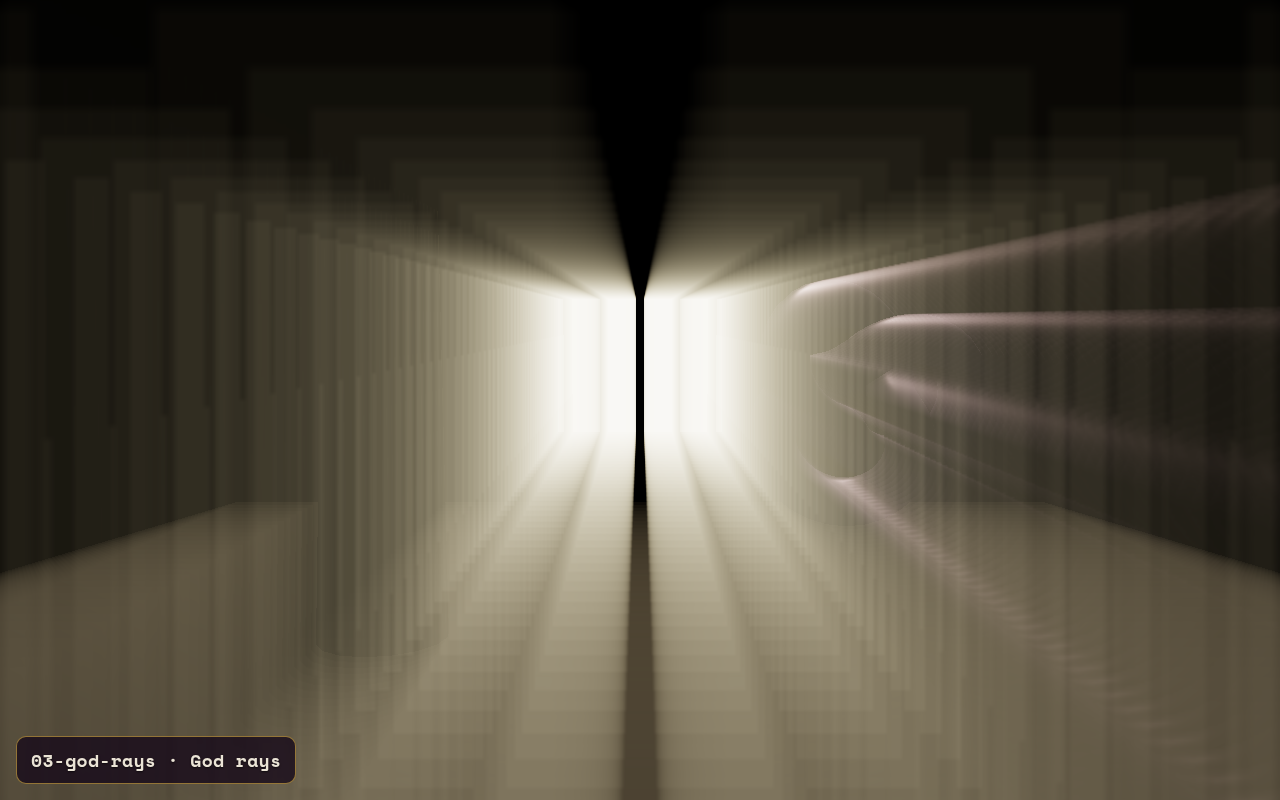
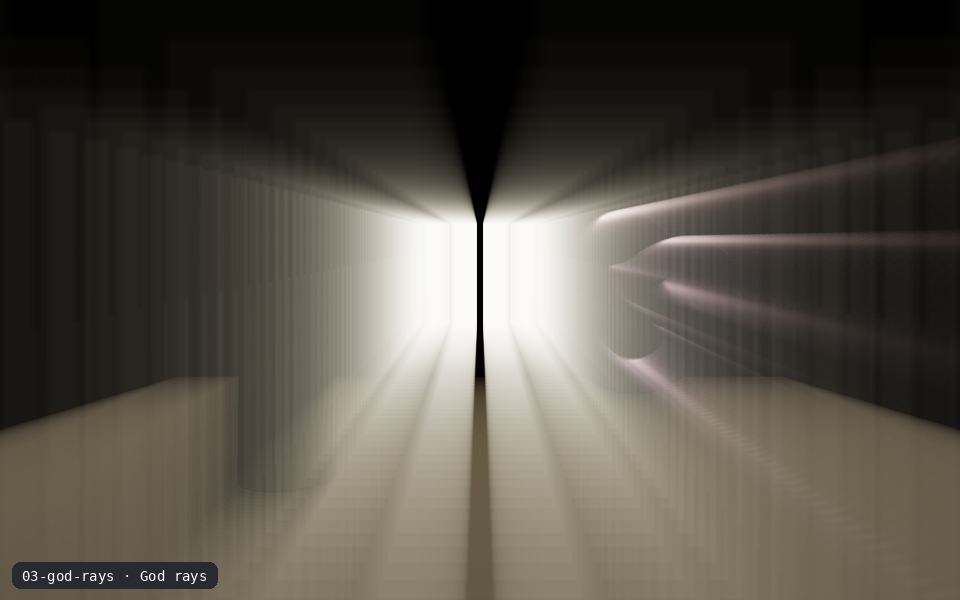
Cubicles: LIVE×4 Virgil stills + god-rays embed fix (live4)
Drop floating labs to god-rays · hdr-ibl chrome · instancing · cloth
(MAX_ARMED=4). Stencil + decals → side/foyer wall stills+diagrams only.
Keep physics eqs, thick Taxodium slabs, −Z stargazer, ambient. Opaque
dark iframe + stronger volumetric shafts for god-rays embed (no more
dark-objects-on-white). Cache-bust both pages ?v=live4.

diff --git a/spatial-drill-technique-cubicles.html b/spatial-drill-technique-cubicles.html
@@ -573,7 +573,7 @@ const GRID_D = GRID_Z_MAX - GRID_Z_MIN;          // depth of 5×4 field
 const CELL_W = OUTER_W / COLS;
 const CELL_D = GRID_D / ROWS;
 const EYE = 1.65;
-const MAX_ARMED = 6; // Virgil LIVE×6: god-rays, hdr-ibl, instancing, cloth, stencil, decals
+const MAX_ARMED = 4; // Virgil LIVE×4: instancing, hdr-ibl (chrome), god-rays, cloth
 /** Unload distant labs sooner — only near-aisle cells stay armed. */
 const ARM_DIST = Math.max(16, GRID_D * 0.7); // all live labs stay reachable
 /** Reach deep enough for far-wall cells (row 3–4) from the cell aisle. */
@@ -616,35 +616,35 @@ if (wantAisle) {
 }
 
 const CELLS = [
-  { id: 'glass', num: '01', name: 'Transmission glass', hint: 'Drag to orbit · thick glass', src: './webgl-lab/01-transmission-glass.html?embed=1&v=budget1' },
-  { id: 'caustics', num: '02', name: 'Caustics', hint: 'Projected caustic pattern', src: './webgl-lab/02-caustics.html?embed=1&v=budget1' },
-  { id: 'god-rays', num: '03', name: 'God rays', hint: 'Volumetric window rays', src: './webgl-lab/03-god-rays.html?embed=1&v=budget1' },
-  { id: 'ssr', num: '04', name: 'SSR', hint: 'Screen-space reflections', src: './webgl-lab/04-ssr.html?embed=1&v=budget1' },
-  { id: 'ssao', num: '05', name: 'SSAO', hint: 'Contact occlusion', src: './webgl-lab/05-ssao.html?embed=1&v=budget1' },
-  { id: 'pcss', num: '06', name: 'PCSS shadows', hint: 'Soft + contact shadows', src: './webgl-lab/06-pcss-contact-shadows.html?embed=1&v=budget1' },
-  { id: 'outline', num: '07', name: 'Outline selection', hint: 'Click to select', src: './webgl-lab/07-outline-selection.html?embed=1&v=budget1' },
-  { id: 'stencil', num: '08', name: 'Stencil portals', hint: 'Look through the frame', src: './webgl-lab/08-stencil-portals.html?embed=1&v=budget1' },
-  { id: 'decals', num: '09', name: 'Decals', hint: 'Stamp Hobbit opening phrases', src: './webgl-lab/09-decals.html?embed=1&v=budget1' },
-  { id: 'hdr-ibl', num: '10', name: 'HDR IBL / PMREM', hint: 'Chrome under HDR', src: './webgl-lab/10-hdr-ibl-pmrem.html?embed=1&v=budget1' },
-  { id: 'matcap', num: '11', name: 'MatCap', hint: 'Porcelain lookup', src: './webgl-lab/11-matcap.html?embed=1&v=budget1' },
-  { id: 'anisotropic', num: '12', name: 'Anisotropic PBR', hint: 'Brushed specular stretch', src: './webgl-lab/12-anisotropic-pbr.html?embed=1&v=budget1' },
-  { id: 'ocean', num: '13', name: 'Ocean / water', hint: 'Water normals + sun', src: './webgl-lab/13-ocean-water.html?embed=1&v=budget1' },
-  { id: 'instancing', num: '14', name: 'InstancedMesh', hint: 'GPU instances', src: './webgl-lab/14-instanced-mesh.html?embed=1&v=budget1' },
-  { id: 'lut', num: '15', name: 'LUT color grade', hint: 'Keys 1–4 switch looks', src: './webgl-lab/15-lut-color-grade.html?embed=1&v=budget1' },
-  { id: 'morph', num: '16', name: 'Morph targets', hint: 'Blend shapes', src: './webgl-lab/16-morph-targets.html?embed=1&v=budget1' },
-  { id: 'ribbons', num: '17', name: 'Fat ribbons', hint: 'Screen-space trails', src: './webgl-lab/17-fat-ribbons.html?embed=1&v=budget1' },
-  { id: 'dolly', num: '18', name: 'Camera dolly', hint: 'Scroll to dolly', src: './webgl-lab/18-scroll-camera-dolly.html?embed=1&v=budget1' },
-  { id: 'cloth', num: '19', name: 'Cloth', hint: 'Verlet soft body · physics', src: './physics-panel.html?demo=cloth&embed=1&v=budget1' },
-  { id: 'particles', num: '20', name: 'Flow particles', hint: 'Curl field · physics', src: './physics-panel.html?demo=particles&embed=1&v=budget1' },
+  { id: 'glass', num: '01', name: 'Transmission glass', hint: 'Drag to orbit · thick glass', src: './webgl-lab/01-transmission-glass.html?embed=1&v=live4' },
+  { id: 'caustics', num: '02', name: 'Caustics', hint: 'Projected caustic pattern', src: './webgl-lab/02-caustics.html?embed=1&v=live4' },
+  { id: 'god-rays', num: '03', name: 'God rays', hint: 'Volumetric window rays', src: './webgl-lab/03-god-rays.html?embed=1&v=live4' },
+  { id: 'ssr', num: '04', name: 'SSR', hint: 'Screen-space reflections', src: './webgl-lab/04-ssr.html?embed=1&v=live4' },
+  { id: 'ssao', num: '05', name: 'SSAO', hint: 'Contact occlusion', src: './webgl-lab/05-ssao.html?embed=1&v=live4' },
+  { id: 'pcss', num: '06', name: 'PCSS shadows', hint: 'Soft + contact shadows', src: './webgl-lab/06-pcss-contact-shadows.html?embed=1&v=live4' },
+  { id: 'outline', num: '07', name: 'Outline selection', hint: 'Click to select', src: './webgl-lab/07-outline-selection.html?embed=1&v=live4' },
+  { id: 'stencil', num: '08', name: 'Stencil portals', hint: 'Look through the frame', src: './webgl-lab/08-stencil-portals.html?embed=1&v=live4' },
+  { id: 'decals', num: '09', name: 'Decals', hint: 'Stamp Hobbit opening phrases', src: './webgl-lab/09-decals.html?embed=1&v=live4' },
+  { id: 'hdr-ibl', num: '10', name: 'HDR IBL / PMREM', hint: 'Chrome under HDR', src: './webgl-lab/10-hdr-ibl-pmrem.html?embed=1&v=live4' },
+  { id: 'matcap', num: '11', name: 'MatCap', hint: 'Porcelain lookup', src: './webgl-lab/11-matcap.html?embed=1&v=live4' },
+  { id: 'anisotropic', num: '12', name: 'Anisotropic PBR', hint: 'Brushed specular stretch', src: './webgl-lab/12-anisotropic-pbr.html?embed=1&v=live4' },
+  { id: 'ocean', num: '13', name: 'Ocean / water', hint: 'Water normals + sun', src: './webgl-lab/13-ocean-water.html?embed=1&v=live4' },
+  { id: 'instancing', num: '14', name: 'InstancedMesh', hint: 'GPU instances', src: './webgl-lab/14-instanced-mesh.html?embed=1&v=live4' },
+  { id: 'lut', num: '15', name: 'LUT color grade', hint: 'Keys 1–4 switch looks', src: './webgl-lab/15-lut-color-grade.html?embed=1&v=live4' },
+  { id: 'morph', num: '16', name: 'Morph targets', hint: 'Blend shapes', src: './webgl-lab/16-morph-targets.html?embed=1&v=live4' },
+  { id: 'ribbons', num: '17', name: 'Fat ribbons', hint: 'Screen-space trails', src: './webgl-lab/17-fat-ribbons.html?embed=1&v=live4' },
+  { id: 'dolly', num: '18', name: 'Camera dolly', hint: 'Scroll to dolly', src: './webgl-lab/18-scroll-camera-dolly.html?embed=1&v=live4' },
+  { id: 'cloth', num: '19', name: 'Cloth', hint: 'Verlet soft body · physics', src: './physics-panel.html?demo=cloth&embed=1&v=live4' },
+  { id: 'particles', num: '20', name: 'Flow particles', hint: 'Curl field · physics', src: './physics-panel.html?demo=particles&embed=1&v=live4' },
 ];
 
-/** Virgil LIVE×6: god-rays, hdr-ibl (chrome), instancing, cloth (richer), stencil, decals.
- *  Rest → side/foyer wall stills+diagrams only. −Z stargazer untouched. */
-const LIVE_IDS = new Set(['god-rays', 'hdr-ibl', 'instancing', 'cloth', 'stencil', 'decals']);
-/** Near-aisle slots for the 6 live labs (col,row) — foyer-readable spread. */
+/** Virgil LIVE×4: god-rays, hdr-ibl (chrome), instancing, cloth.
+ *  Stencil (08) + decals (09) → side/foyer wall stills+diagrams. −Z stargazer untouched. */
+const LIVE_IDS = new Set(['god-rays', 'hdr-ibl', 'instancing', 'cloth']);
+/** Near-aisle slots for the 4 live labs (col,row) — foyer-readable spread. */
 const LIVE_SLOTS = [
-  [0, 0], [2, 0], [4, 0],
-  [1, 1], [2, 1], [3, 1],
+  [1, 0], [3, 0],
+  [2, 1], [4, 1],
 ];
 /** Still snapshot paths (labeled gallery). */
 const STILL_BY_ID = {
@@ -1940,10 +1940,18 @@ for (let li = 0; li < liveMetas.length; li++) {
   iframe.style.width = cssW + 'px';
   iframe.style.height = cssH + 'px';
   iframe.style.border = '0';
-  iframe.style.background = 'transparent';
-  iframe.style.backgroundColor = 'transparent';
-  iframe.style.colorScheme = 'normal';
-  iframe.setAttribute('allowtransparency', 'true');
+  // God-rays need an opaque dark plate — transparent iframe compositing wiped shafts
+  // (dark objects on white / no volumetric). Other labs stay transparent floaters.
+  if (meta.id === 'god-rays') {
+    iframe.style.background = '#020308';
+    iframe.style.backgroundColor = '#020308';
+    iframe.style.colorScheme = 'dark';
+  } else {
+    iframe.style.background = 'transparent';
+    iframe.style.backgroundColor = 'transparent';
+    iframe.style.colorScheme = 'normal';
+    iframe.setAttribute('allowtransparency', 'true');
+  }
   iframe.style.pointerEvents = 'none';
   iframe.style.borderRadius = '0';
   iframe.style.boxShadow = 'none';

diff --git a/spatial-drill-technique-cubicles-fulldome-grove.html b/spatial-drill-technique-cubicles-fulldome-grove.html
@@ -572,7 +572,7 @@ const GRID_D = GRID_Z_MAX - GRID_Z_MIN;          // depth of 5×4 field
 const CELL_W = OUTER_W / COLS;
 const CELL_D = GRID_D / ROWS;
 const EYE = 1.65;
-const MAX_ARMED = 6; // Virgil LIVE×6: god-rays, hdr-ibl, instancing, cloth, stencil, decals
+const MAX_ARMED = 4; // Virgil LIVE×4: instancing, hdr-ibl (chrome), god-rays, cloth
 /** Arm embeds across ~full grid depth so back rows stay live while walking. */
 const ARM_DIST = Math.max(22, GRID_D * 0.95);
 /** Reach deep enough for far-wall cells (row 3–4) from the cell aisle. */
@@ -615,35 +615,35 @@ if (wantAisle) {
 }
 
 const CELLS = [
-  { id: 'glass', num: '01', name: 'Transmission glass', hint: 'Drag to orbit · thick glass', src: './webgl-lab/01-transmission-glass.html?embed=1&v=budget1' },
-  { id: 'caustics', num: '02', name: 'Caustics', hint: 'Projected caustic pattern', src: './webgl-lab/02-caustics.html?embed=1&v=budget1' },
-  { id: 'god-rays', num: '03', name: 'God rays', hint: 'Volumetric window rays', src: './webgl-lab/03-god-rays.html?embed=1&v=budget1' },
-  { id: 'ssr', num: '04', name: 'SSR', hint: 'Screen-space reflections', src: './webgl-lab/04-ssr.html?embed=1&v=budget1' },
-  { id: 'ssao', num: '05', name: 'SSAO', hint: 'Contact occlusion', src: './webgl-lab/05-ssao.html?embed=1&v=budget1' },
-  { id: 'pcss', num: '06', name: 'PCSS shadows', hint: 'Soft + contact shadows', src: './webgl-lab/06-pcss-contact-shadows.html?embed=1&v=budget1' },
-  { id: 'outline', num: '07', name: 'Outline selection', hint: 'Click to select', src: './webgl-lab/07-outline-selection.html?embed=1&v=budget1' },
-  { id: 'stencil', num: '08', name: 'Stencil portals', hint: 'Look through the frame', src: './webgl-lab/08-stencil-portals.html?embed=1&v=budget1' },
-  { id: 'decals', num: '09', name: 'Decals', hint: 'Stamp Hobbit opening phrases', src: './webgl-lab/09-decals.html?embed=1&v=budget1' },
-  { id: 'hdr-ibl', num: '10', name: 'HDR IBL / PMREM', hint: 'Chrome under HDR', src: './webgl-lab/10-hdr-ibl-pmrem.html?embed=1&v=budget1' },
-  { id: 'matcap', num: '11', name: 'MatCap', hint: 'Porcelain lookup', src: './webgl-lab/11-matcap.html?embed=1&v=budget1' },
-  { id: 'anisotropic', num: '12', name: 'Anisotropic PBR', hint: 'Brushed specular stretch', src: './webgl-lab/12-anisotropic-pbr.html?embed=1&v=budget1' },
-  { id: 'ocean', num: '13', name: 'Ocean / water', hint: 'Water normals + sun', src: './webgl-lab/13-ocean-water.html?embed=1&v=budget1' },
-  { id: 'instancing', num: '14', name: 'InstancedMesh', hint: 'GPU instances', src: './webgl-lab/14-instanced-mesh.html?embed=1&v=budget1' },
-  { id: 'lut', num: '15', name: 'LUT color grade', hint: 'Keys 1–4 switch looks', src: './webgl-lab/15-lut-color-grade.html?embed=1&v=budget1' },
-  { id: 'morph', num: '16', name: 'Morph targets', hint: 'Blend shapes', src: './webgl-lab/16-morph-targets.html?embed=1&v=budget1' },
-  { id: 'ribbons', num: '17', name: 'Fat ribbons', hint: 'Screen-space trails', src: './webgl-lab/17-fat-ribbons.html?embed=1&v=budget1' },
-  { id: 'dolly', num: '18', name: 'Camera dolly', hint: 'Scroll to dolly', src: './webgl-lab/18-scroll-camera-dolly.html?embed=1&v=budget1' },
-  { id: 'cloth', num: '19', name: 'Cloth', hint: 'Verlet soft body · physics', src: './physics-panel.html?demo=cloth&embed=1&v=budget1' },
-  { id: 'particles', num: '20', name: 'Flow particles', hint: 'Curl field · physics', src: './physics-panel.html?demo=particles&embed=1&v=budget1' },
+  { id: 'glass', num: '01', name: 'Transmission glass', hint: 'Drag to orbit · thick glass', src: './webgl-lab/01-transmission-glass.html?embed=1&v=live4' },
+  { id: 'caustics', num: '02', name: 'Caustics', hint: 'Projected caustic pattern', src: './webgl-lab/02-caustics.html?embed=1&v=live4' },
+  { id: 'god-rays', num: '03', name: 'God rays', hint: 'Volumetric window rays', src: './webgl-lab/03-god-rays.html?embed=1&v=live4' },
+  { id: 'ssr', num: '04', name: 'SSR', hint: 'Screen-space reflections', src: './webgl-lab/04-ssr.html?embed=1&v=live4' },
+  { id: 'ssao', num: '05', name: 'SSAO', hint: 'Contact occlusion', src: './webgl-lab/05-ssao.html?embed=1&v=live4' },
+  { id: 'pcss', num: '06', name: 'PCSS shadows', hint: 'Soft + contact shadows', src: './webgl-lab/06-pcss-contact-shadows.html?embed=1&v=live4' },
+  { id: 'outline', num: '07', name: 'Outline selection', hint: 'Click to select', src: './webgl-lab/07-outline-selection.html?embed=1&v=live4' },
+  { id: 'stencil', num: '08', name: 'Stencil portals', hint: 'Look through the frame', src: './webgl-lab/08-stencil-portals.html?embed=1&v=live4' },
+  { id: 'decals', num: '09', name: 'Decals', hint: 'Stamp Hobbit opening phrases', src: './webgl-lab/09-decals.html?embed=1&v=live4' },
+  { id: 'hdr-ibl', num: '10', name: 'HDR IBL / PMREM', hint: 'Chrome under HDR', src: './webgl-lab/10-hdr-ibl-pmrem.html?embed=1&v=live4' },
+  { id: 'matcap', num: '11', name: 'MatCap', hint: 'Porcelain lookup', src: './webgl-lab/11-matcap.html?embed=1&v=live4' },
+  { id: 'anisotropic', num: '12', name: 'Anisotropic PBR', hint: 'Brushed specular stretch', src: './webgl-lab/12-anisotropic-pbr.html?embed=1&v=live4' },
+  { id: 'ocean', num: '13', name: 'Ocean / water', hint: 'Water normals + sun', src: './webgl-lab/13-ocean-water.html?embed=1&v=live4' },
+  { id: 'instancing', num: '14', name: 'InstancedMesh', hint: 'GPU instances', src: './webgl-lab/14-instanced-mesh.html?embed=1&v=live4' },
+  { id: 'lut', num: '15', name: 'LUT color grade', hint: 'Keys 1–4 switch looks', src: './webgl-lab/15-lut-color-grade.html?embed=1&v=live4' },
+  { id: 'morph', num: '16', name: 'Morph targets', hint: 'Blend shapes', src: './webgl-lab/16-morph-targets.html?embed=1&v=live4' },
+  { id: 'ribbons', num: '17', name: 'Fat ribbons', hint: 'Screen-space trails', src: './webgl-lab/17-fat-ribbons.html?embed=1&v=live4' },
+  { id: 'dolly', num: '18', name: 'Camera dolly', hint: 'Scroll to dolly', src: './webgl-lab/18-scroll-camera-dolly.html?embed=1&v=live4' },
+  { id: 'cloth', num: '19', name: 'Cloth', hint: 'Verlet soft body · physics', src: './physics-panel.html?demo=cloth&embed=1&v=live4' },
+  { id: 'particles', num: '20', name: 'Flow particles', hint: 'Curl field · physics', src: './physics-panel.html?demo=particles&embed=1&v=live4' },
 ];
 
-/** Virgil LIVE×6: god-rays, hdr-ibl (chrome), instancing, cloth (richer), stencil, decals.
- *  Rest → side/foyer wall stills+diagrams only. −Z stargazer untouched. */
-const LIVE_IDS = new Set(['god-rays', 'hdr-ibl', 'instancing', 'cloth', 'stencil', 'decals']);
-/** Near-aisle slots for the 6 live labs (col,row) — foyer-readable spread. */
+/** Virgil LIVE×4: god-rays, hdr-ibl (chrome), instancing, cloth.
+ *  Stencil (08) + decals (09) → side/foyer wall stills+diagrams. −Z stargazer untouched. */
+const LIVE_IDS = new Set(['god-rays', 'hdr-ibl', 'instancing', 'cloth']);
+/** Near-aisle slots for the 4 live labs (col,row) — foyer-readable spread. */
 const LIVE_SLOTS = [
-  [0, 0], [2, 0], [4, 0],
-  [1, 1], [2, 1], [3, 1],
+  [1, 0], [3, 0],
+  [2, 1], [4, 1],
 ];
 /** Still snapshot paths (labeled gallery). */
 const STILL_BY_ID = {
@@ -1846,10 +1846,18 @@ for (let li = 0; li < liveMetas.length; li++) {
   iframe.style.width = cssW + 'px';
   iframe.style.height = cssH + 'px';
   iframe.style.border = '0';
-  iframe.style.background = 'transparent';
-  iframe.style.backgroundColor = 'transparent';
-  iframe.style.colorScheme = 'normal';
-  iframe.setAttribute('allowtransparency', 'true');
+  // God-rays need an opaque dark plate — transparent iframe compositing wiped shafts
+  // (dark objects on white / no volumetric). Other labs stay transparent floaters.
+  if (meta.id === 'god-rays') {
+    iframe.style.background = '#020308';
+    iframe.style.backgroundColor = '#020308';
+    iframe.style.colorScheme = 'dark';
+  } else {
+    iframe.style.background = 'transparent';
+    iframe.style.backgroundColor = 'transparent';
+    iframe.style.colorScheme = 'normal';
+    iframe.setAttribute('allowtransparency', 'true');
+  }
   iframe.style.pointerEvents = 'none';
   iframe.style.borderRadius = '0';
   iframe.style.boxShadow = 'none';

diff --git a/webgl-lab/03-god-rays.html b/webgl-lab/03-god-rays.html
@@ -88,7 +88,7 @@ floor.rotation.x=-Math.PI/2; scene.add(floor);
 // Window wall with hole (bright emissive panel behind)
 const wall = new THREE.Mesh(new THREE.PlaneGeometry(8,4), new THREE.MeshStandardMaterial({color:0x12151e, roughness:1}));
 wall.position.set(0,2,-3.95); scene.add(wall);
-const lightPanel = new THREE.Mesh(new THREE.PlaneGeometry(1.6, 2.2), new THREE.MeshBasicMaterial({color:0xfff2cc}));
+const lightPanel = new THREE.Mesh(new THREE.PlaneGeometry(1.6, 2.2), new THREE.MeshBasicMaterial({color:0xfff6e0}));
 lightPanel.position.set(0, 1.8, -3.9); scene.add(lightPanel);
 // bars
 for (let i=-2;i<=2;i++) {
@@ -109,11 +109,11 @@ const GodRaysShader = {
   uniforms: {
     tDiffuse: { value: null },
     lightPosition: { value: new THREE.Vector2(0.5, 0.62) },
-    exposure: { value: 0.42 },
+    exposure: { value: 0.52 },
     decay: { value: 0.94 },
     density: { value: 0.95 },
-    weight: { value: 0.48 },
-    samples: { value: 60 }
+    weight: { value: 0.55 },
+    samples: { value: 72 }
   },
   vertexShader: `varying vec2 vUv; void main(){ vUv=uv; gl_Position=projectionMatrix*modelViewMatrix*vec4(position,1.0); }`,
   fragmentShader: `

diff --git a/README.md b/README.md
@@ -7,8 +7,8 @@ Live: https://virgilrenfroe.github.io/noctuary-corridor/
 Direct hall (no unlock): https://virgilrenfroe.github.io/noctuary-corridor/spatial-drill-samuclima-beyond.html
 
 Physics room (dedicated wing): https://virgilrenfroe.github.io/noctuary-corridor/spatial-drill-physics-room.html
-Technique cubicles (outer sphere · stargazer high-res back band · soft water disc · 6 live floating labs (god-rays · hdr chrome · instancing · cloth · stencil · decals) + wall diagram posters on side/foyer · Virgil LIVE_IDS): https://virgilrenfroe.github.io/noctuary-corridor/spatial-drill-technique-cubicles.html?v=budget1
-Technique cubicles capture (box grove · 6 live near-aisle labs (god-rays · hdr · instancing · cloth · stencil · decals) · side/foyer wall diagram posters · stargazer −Z untouched · chrome mercury walkpad): https://virgilrenfroe.github.io/noctuary-corridor/spatial-drill-technique-cubicles-fulldome-grove.html?v=budget1
+Technique cubicles (outer sphere · stargazer high-res back band · soft water disc · 4 live floating labs (instanced-mesh · hdr-ibl chrome · god-rays · cloth) + wall stills+diagrams on side/foyer (incl. stencil · decals) · Virgil LIVE_IDS): https://virgilrenfroe.github.io/noctuary-corridor/spatial-drill-technique-cubicles.html?v=live4
+Technique cubicles capture (box grove · 4 live near-aisle labs (instancing · hdr chrome · god-rays · cloth) · side/foyer wall stills+diagrams (stencil · decals demoted) · stargazer −Z untouched · chrome mercury walkpad): https://virgilrenfroe.github.io/noctuary-corridor/spatial-drill-technique-cubicles-fulldome-grove.html?v=live4
 
 Env bake (not hung panels): physics room = HDR IBL/PMREM + SSAO + soft/contact shadows + transmission glass orb; night hall physics door = stencil/glass portal aperture.
 
